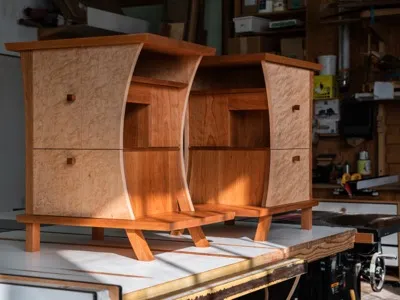
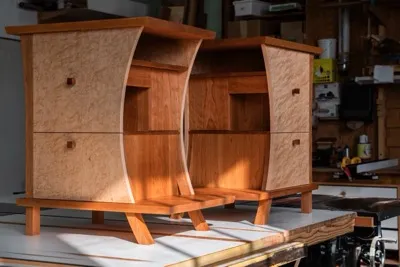
Fix nightstand image sizes and gallery alternating pattern
- Crop all nightstand images to 3:2 landscape (1500x1000) matching
  existing gallery items
- Regenerate all responsive variants (400w, 800w) and WebP
- Fix left/right alternating pattern broken by insertion:
  Table(L), Nightstands(R), Cabinet(L), Bench(R), Desk(L)

diff --git a/src/index.html b/src/index.html
@@ -125,19 +125,19 @@
         <div class="gallery-feature-image" data-carousel>
           <div class="carousel-track">
             <div class="carousel-slide active">
-              <picture><source srcset="images/gallery/nightstand-1-400w.webp 400w, images/gallery/nightstand-1-800w.webp 800w, images/gallery/nightstand-1.webp 2500w" sizes="(max-width: 900px) 100vw, 60vw" type="image/webp"><img src="images/gallery/nightstand-1.jpeg" alt="Cherry and birdseye maple nightstand with walnut drawer pulls, front view showing curved sides" loading="lazy" srcset="images/gallery/nightstand-1-400w.jpeg 400w, images/gallery/nightstand-1-800w.jpeg 800w, images/gallery/nightstand-1.jpeg 2500w" sizes="(max-width: 900px) 100vw, 60vw" width="2500" height="3333"></picture>
+              <picture><source srcset="images/gallery/nightstand-1-400w.webp 400w, images/gallery/nightstand-1-800w.webp 800w, images/gallery/nightstand-1.webp 1500w" sizes="(max-width: 900px) 100vw, 60vw" type="image/webp"><img src="images/gallery/nightstand-1.jpeg" alt="Cherry and birdseye maple nightstand with walnut drawer pulls, front view showing curved sides" loading="lazy" srcset="images/gallery/nightstand-1-400w.jpeg 400w, images/gallery/nightstand-1-800w.jpeg 800w, images/gallery/nightstand-1.jpeg 1500w" sizes="(max-width: 900px) 100vw, 60vw" width="1500" height="1000"></picture>
             </div>
             <div class="carousel-slide">
-              <picture><source srcset="images/gallery/nightstand-2-400w.webp 400w, images/gallery/nightstand-2-800w.webp 800w, images/gallery/nightstand-2.webp 2500w" sizes="(max-width: 900px) 100vw, 60vw" type="image/webp"><img src="images/gallery/nightstand-2.jpeg" alt="Pair of cherry and birdseye maple nightstands side by side in the workshop" loading="lazy" srcset="images/gallery/nightstand-2-400w.jpeg 400w, images/gallery/nightstand-2-800w.jpeg 800w, images/gallery/nightstand-2.jpeg 2500w" sizes="(max-width: 900px) 100vw, 60vw" width="2500" height="1875"></picture>
+              <picture><source srcset="images/gallery/nightstand-2-400w.webp 400w, images/gallery/nightstand-2-800w.webp 800w, images/gallery/nightstand-2.webp 1500w" sizes="(max-width: 900px) 100vw, 60vw" type="image/webp"><img src="images/gallery/nightstand-2.jpeg" alt="Pair of cherry and birdseye maple nightstands side by side in the workshop" loading="lazy" srcset="images/gallery/nightstand-2-400w.jpeg 400w, images/gallery/nightstand-2-800w.jpeg 800w, images/gallery/nightstand-2.jpeg 1500w" sizes="(max-width: 900px) 100vw, 60vw" width="1500" height="1000"></picture>
             </div>
             <div class="carousel-slide">
-              <picture><source srcset="images/gallery/nightstand-3-400w.webp 400w, images/gallery/nightstand-3-800w.webp 800w, images/gallery/nightstand-3.webp 2500w" sizes="(max-width: 900px) 100vw, 60vw" type="image/webp"><img src="images/gallery/nightstand-3.jpeg" alt="Cherry nightstands facing each other showing curved sides and warm cherry grain" loading="lazy" srcset="images/gallery/nightstand-3-400w.jpeg 400w, images/gallery/nightstand-3-800w.jpeg 800w, images/gallery/nightstand-3.jpeg 2500w" sizes="(max-width: 900px) 100vw, 60vw" width="2500" height="3333"></picture>
+              <picture><source srcset="images/gallery/nightstand-3-400w.webp 400w, images/gallery/nightstand-3-800w.webp 800w, images/gallery/nightstand-3.webp 1500w" sizes="(max-width: 900px) 100vw, 60vw" type="image/webp"><img src="images/gallery/nightstand-3.jpeg" alt="Cherry nightstands facing each other showing curved sides and warm cherry grain" loading="lazy" srcset="images/gallery/nightstand-3-400w.jpeg 400w, images/gallery/nightstand-3-800w.jpeg 800w, images/gallery/nightstand-3.jpeg 1500w" sizes="(max-width: 900px) 100vw, 60vw" width="1500" height="1000"></picture>
             </div>
             <div class="carousel-slide">
-              <picture><source srcset="images/gallery/nightstand-4-400w.webp 400w, images/gallery/nightstand-4-800w.webp 800w, images/gallery/nightstand-4.webp 2500w" sizes="(max-width: 900px) 100vw, 60vw" type="image/webp"><img src="images/gallery/nightstand-4.jpeg" alt="Hand-cut dovetail drawer in maple with cherry panel detail" loading="lazy" srcset="images/gallery/nightstand-4-400w.jpeg 400w, images/gallery/nightstand-4-800w.jpeg 800w, images/gallery/nightstand-4.jpeg 2500w" sizes="(max-width: 900px) 100vw, 60vw" width="2500" height="1875"></picture>
+              <picture><source srcset="images/gallery/nightstand-4-400w.webp 400w, images/gallery/nightstand-4-800w.webp 800w, images/gallery/nightstand-4.webp 1500w" sizes="(max-width: 900px) 100vw, 60vw" type="image/webp"><img src="images/gallery/nightstand-4.jpeg" alt="Hand-cut dovetail drawer in maple with cherry panel detail" loading="lazy" srcset="images/gallery/nightstand-4-400w.jpeg 400w, images/gallery/nightstand-4-800w.jpeg 800w, images/gallery/nightstand-4.jpeg 1500w" sizes="(max-width: 900px) 100vw, 60vw" width="1500" height="1000"></picture>
             </div>
             <div class="carousel-slide">
-              <picture><source srcset="images/gallery/nightstand-5-400w.webp 400w, images/gallery/nightstand-5-800w.webp 800w, images/gallery/nightstand-5.webp 2500w" sizes="(max-width: 900px) 100vw, 60vw" type="image/webp"><img src="images/gallery/nightstand-5.jpeg" alt="Close-up of birdseye maple panel with walnut pull on nightstand door" loading="lazy" srcset="images/gallery/nightstand-5-400w.jpeg 400w, images/gallery/nightstand-5-800w.jpeg 800w, images/gallery/nightstand-5.jpeg 2500w" sizes="(max-width: 900px) 100vw, 60vw" width="2500" height="3333"></picture>
+              <picture><source srcset="images/gallery/nightstand-5-400w.webp 400w, images/gallery/nightstand-5-800w.webp 800w, images/gallery/nightstand-5.webp 1500w" sizes="(max-width: 900px) 100vw, 60vw" type="image/webp"><img src="images/gallery/nightstand-5.jpeg" alt="Close-up of birdseye maple panel with walnut pull on nightstand door" loading="lazy" srcset="images/gallery/nightstand-5-400w.jpeg 400w, images/gallery/nightstand-5-800w.jpeg 800w, images/gallery/nightstand-5.jpeg 1500w" sizes="(max-width: 900px) 100vw, 60vw" width="1500" height="1000"></picture>
             </div>
           </div>
           <button class="carousel-btn prev" aria-label="Previous image">&larr;</button>
@@ -150,7 +150,7 @@
       </div>
 
       <!-- Wall Cabinet -->
-      <div class="gallery-feature reverse">
+      <div class="gallery-feature">
         <div class="gallery-feature-image" data-carousel>
           <div class="carousel-track">
             <div class="carousel-slide active">
@@ -173,7 +173,7 @@
       </div>
 
       <!-- Mahogany Bench -->
-      <div class="gallery-feature">
+      <div class="gallery-feature reverse">
         <div class="gallery-feature-image" data-carousel>
           <div class="carousel-track">
             <div class="carousel-slide active">
@@ -196,7 +196,7 @@
       </div>
 
       <!-- Madrone Desk -->
-      <div class="gallery-feature reverse">
+      <div class="gallery-feature">
         <div class="gallery-feature-image" data-carousel>
           <div class="carousel-track">
             <div class="carousel-slide active">
